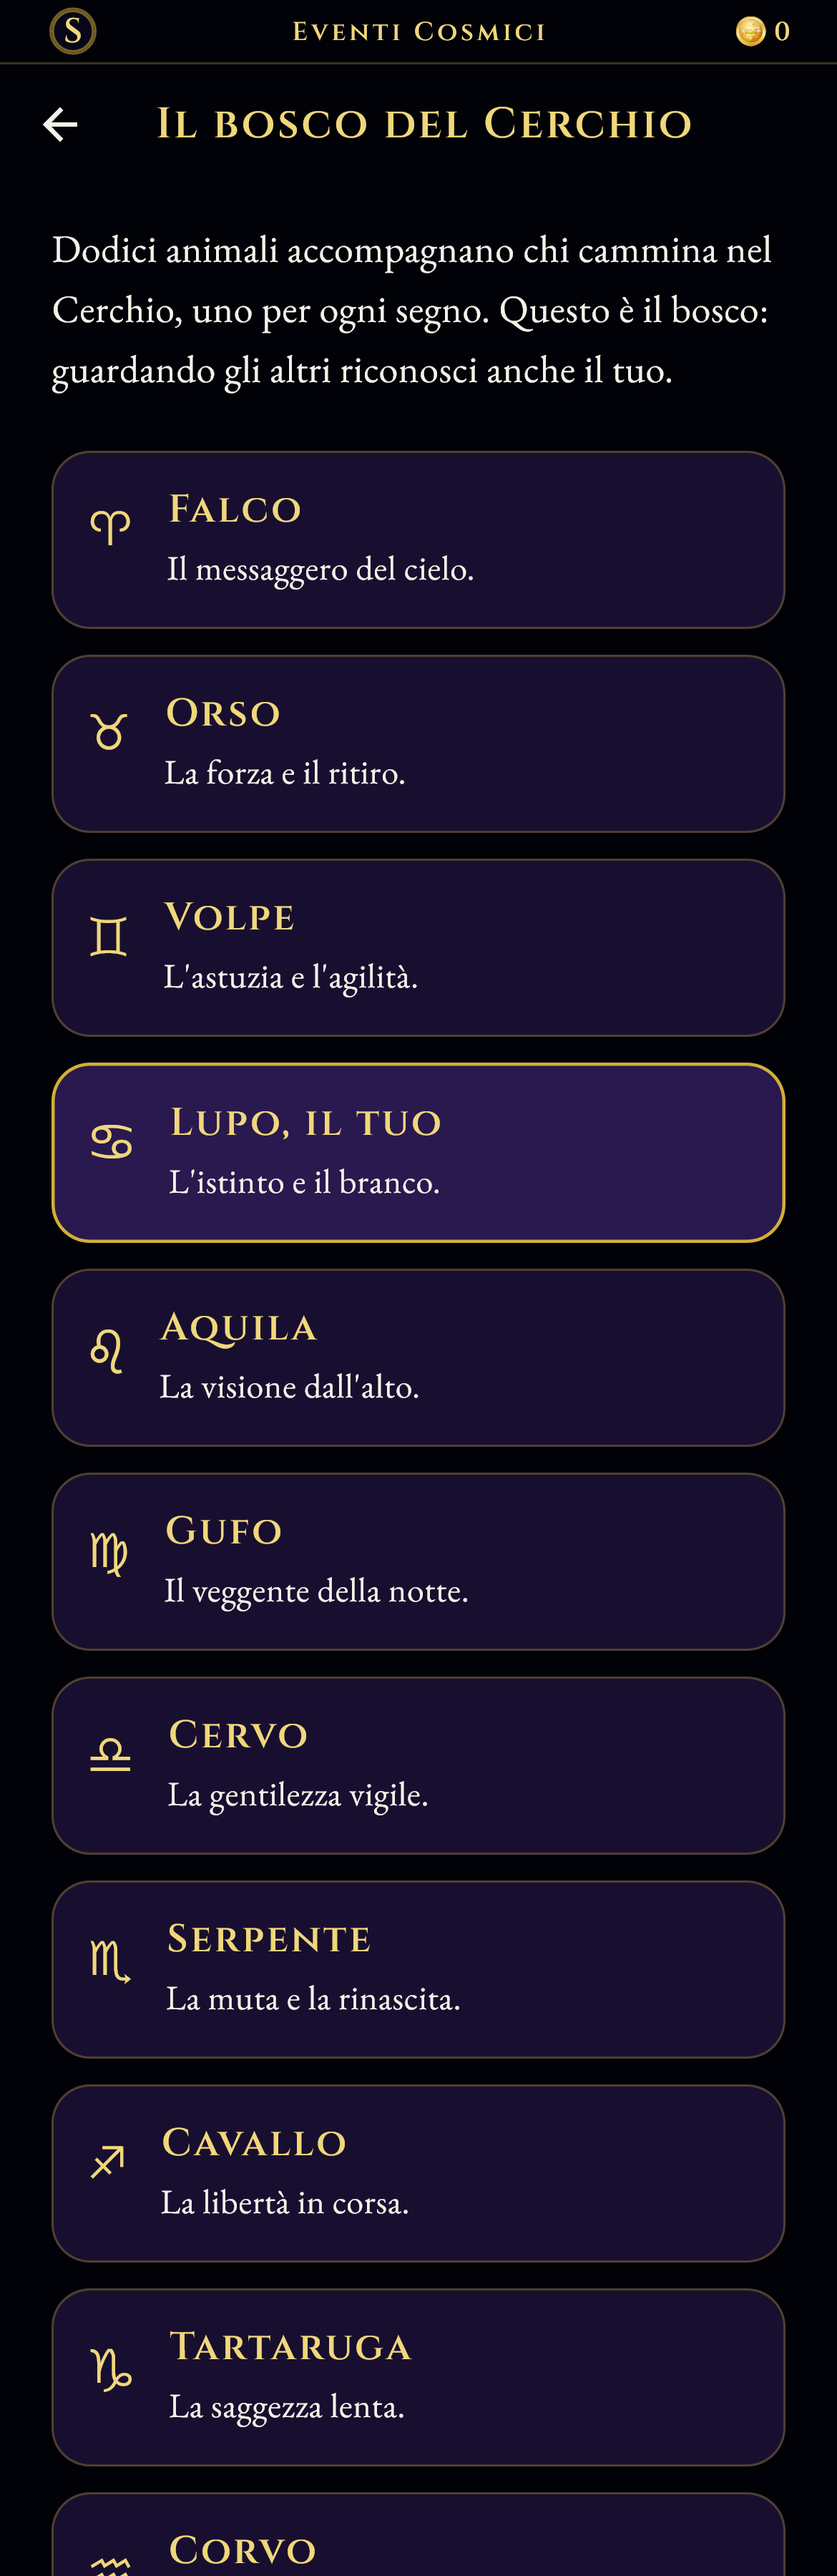
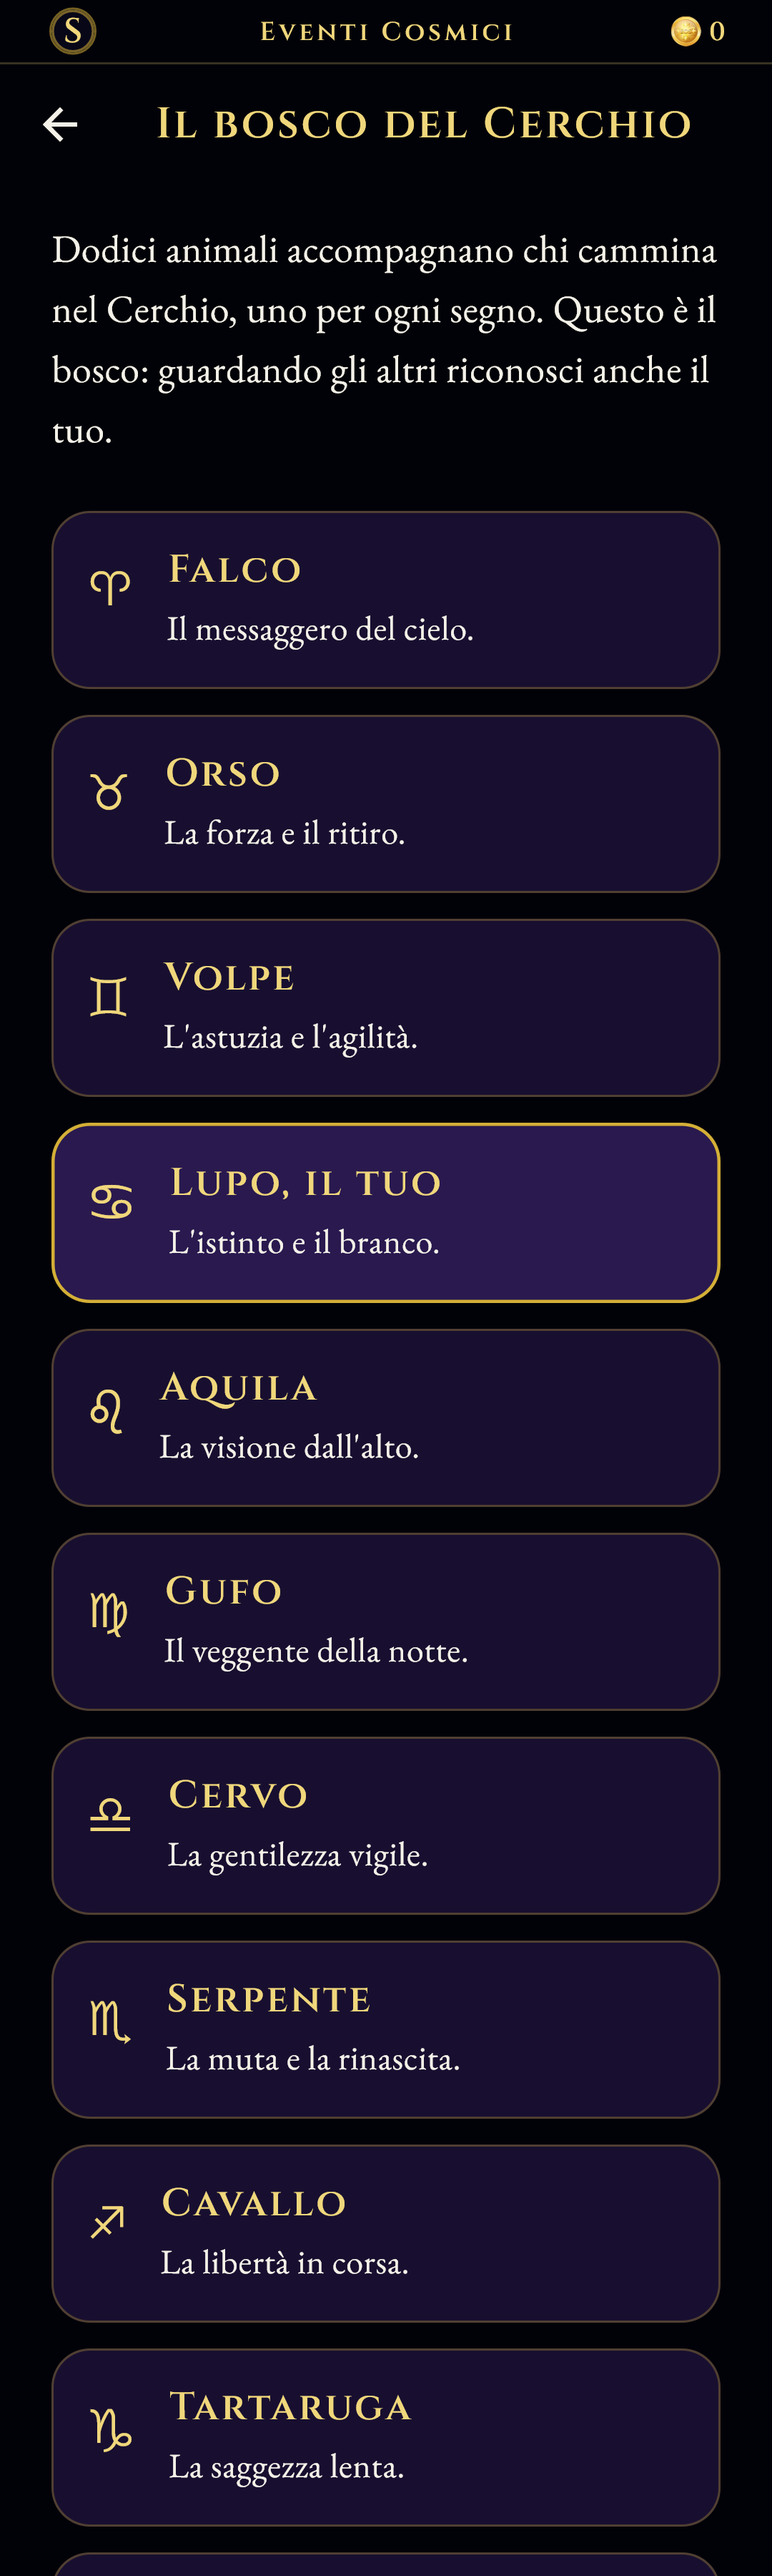
Le tre guardie che le catture nuove hanno svegliato
LA LARGHEZZA DI CASA E' 360, non 390. Le tre catture nuove usavano la
misura sbagliata, e la guardia del corredo lo dice da tempo: un'anteprima
alla larghezza vecchia non mostra cio' che si vede sul telefono.

IL MOTIVO DELL'INVITO VIENE DAL SUO POSTO. Il borsellino lo scriveva a
mano per riconoscere il premio dell'invito accolto, e i motivi della
condivisione vivono in un punto solo.

LA PROMESSA SI GUARDA NEL SENSO, non nella lettera. La guardia inchiodava
la frase esatta "Eos quando il tuo amico entra": adesso legge la frase
vera e pretende cio' che conta, che prometta l'INGRESSO, che il Cerchio sa
vedere, e non il download, che nessuno puo' osservare.

diff --git a/test/screenshot_capture_test.dart b/test/screenshot_capture_test.dart
@@ -1875,7 +1875,7 @@ void main() {
     await loadFonts();
     final rootKey =
         await mount(tester, await buildServices(Maestro.caligo, seeded: false));
-    await montaLoSchermo(tester, const Size(390, 1200));
+    await montaLoSchermo(tester, const Size(360, 1200));
     final nav = tester.state<NavigatorState>(find.byType(Navigator).first);
     unawaited(nav.push(BoscoDelCerchio.route(mio: 'Lupo')));
     await step(tester);
@@ -1888,7 +1888,7 @@ void main() {
     await loadFonts();
     final rootKey =
         await mount(tester, await buildServices(Maestro.caligo, seeded: false));
-    await montaLoSchermo(tester, const Size(390, 900));
+    await montaLoSchermo(tester, const Size(360, 900));
     final nav = tester.state<NavigatorState>(find.byType(Navigator).first);
     unawaited(nav.push(DreamRiteScreen.route(now: DateTime(2026, 7, 30, 23))));
     await step(tester);
@@ -1938,7 +1938,7 @@ void main() {
     await loadFonts();
     final rootKey =
         await mount(tester, await buildServices(Maestro.medora, seeded: false));
-    await montaLoSchermo(tester, const Size(390, 844));
+    await montaLoSchermo(tester, const Size(360, 844));
     // **DALLA VIA VERA, non chiamando la funzione da fuori.** Aperto dal
     // Navigator della radice il foglio finisce SOTTO la barra di navigazione
     // del guscio, che si dipinge piu' in alto: l'immagine mostrava il campo

diff --git a/test/le_promesse_si_mantengono_test.dart b/test/le_promesse_si_mantengono_test.dart
@@ -80,7 +80,20 @@ void main() {
     final b = leggi('lib/core/sigilli/bonus_della_condivisione.dart');
     // Si guarda la FRASE A SCHERMO (quandoArriva), non i commenti, che la
     // storia del perche' la citano apposta.
-    expect(b.contains("quandoArriva: 'Eos quando il tuo amico entra"), isTrue,
+    // **SI GUARDA IL SENSO, non la lettera.** Ordine BX: la parola "Eos" e\'
+    // uscita dalla frase, perche\' la riga si componeva come "$quanti Eos ..."
+    // e senza numero a schermo si leggeva "Eos quando il tuo amico entra nel
+    // Cerchio". Cio\' che questa riga sorveglia non e\' cambiato: la frase
+    // promette l\'INGRESSO, che il Cerchio sa vedere da quando esiste
+    // `riscattaLInvito`, e non il download, che nessuno puo\' osservare.
+    final frase = RegExp(r"quandoArriva: '([^']*amico[^']*)'").firstMatch(b);
+    expect(frase, isNotNull,
+        reason: 'la frase dell\'invito non parla piu\' dell\'amico');
+    // ignore: avoid_print
+    print('ORDINE BX: la frase dell\'invito dice "${frase!.group(1)}"');
+    expect(frase.group(1), contains('entra nel Cerchio'),
+        reason: 'la frase dell\'invito non promette piu\' l\'ingresso');
+    expect(frase.group(1)!.toLowerCase(), isNot(contains('scarica')),
         reason: 'la frase dell\'invito promette di vedere il download, che '
             'il sistema non puo\' osservare');
   });

diff --git a/lib/core/entitlement/question_allowance.dart b/lib/core/entitlement/question_allowance.dart
@@ -9,6 +9,7 @@ import '../../services/server/porta_del_cerchio.dart';
 import '../tempo/confine_del_giorno.dart';
 import 'tier.dart';
 import '../synastry/vip_catalog.dart';
+import '../sigilli/bonus_della_condivisione.dart';
 
 /// Contatore locale delle domande ai Maestri, per tier.
 ///
@@ -77,7 +78,9 @@ class QuestionAllowance extends ChangeNotifier {
       // in `EOS_DELL_INVITO_ACCOLTO` sul server e arriva con lo stato.
       // Senza questa riga la card diceva "Eos quando il tuo amico entra nel
       // Cerchio", senza cifra, e l'ha visto l'anteprima.
-      (motivo == 'invito_con_download' ? _premioDellInvitoAccolto : null);
+      (motivo == ModoDellaCondivisione.invitoConDownload.motivo
+          ? _premioDellInvitoAccolto
+          : null);
 
   int? _premioDellInvitoAccolto;
 
